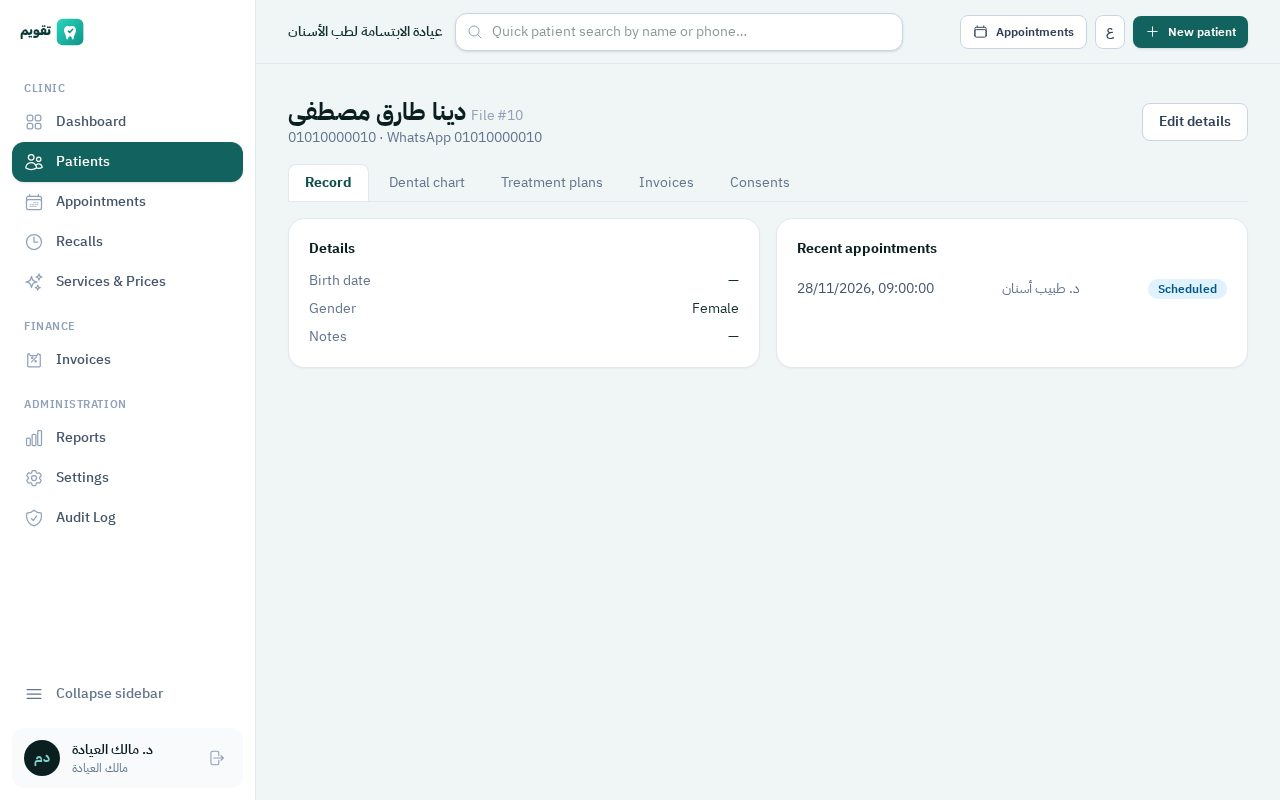
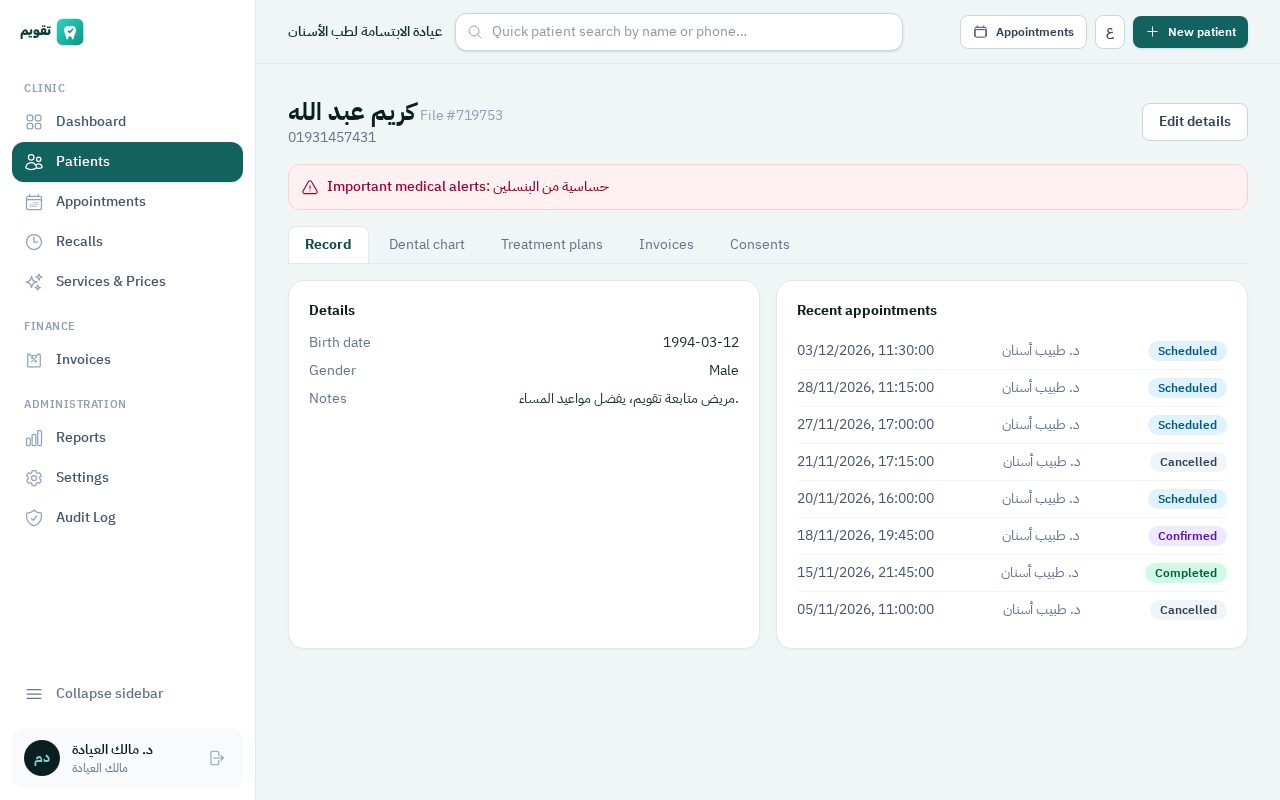
Data-rich landing screenshots, richer synthetic demo seeder, deployment notes
- Regenerate the 10 landing jpgs from a clinic with 88 patients, 161
  appointments and 33 invoices: dashboards, reports, appointment book,
  patient record and invoice views now show real working-clinic volume
- DatabaseSeeder grows the fictional demo clinic to the same volumes so
  taqwim:demo on a fresh install produces equally rich screens; still
  additive-only and refuses to rerun against existing demo records
- docs/deployment.md records the nonsecret host facts every deploy must
  preserve: the cPanel PHP 8.3 handler block above the Laravel rewrites
  in public/.htaccess, and the live host config choices
- README links the deployment notes

diff --git a/database/seeders/DatabaseSeeder.php b/database/seeders/DatabaseSeeder.php
@@ -226,6 +226,69 @@ class DatabaseSeeder extends Seeder
         $makeInvoice($patients[9], [['desc' => 'علاج عصب', 'price' => 250000], ['desc' => 'كشف وتشخيص', 'price' => 30000]], 6, $at(12, 13), [['amount' => 150000, 'method' => 'instapay'], ['amount' => 50000, 'method' => 'cash', 'plusDays' => 5]], 'partially_paid');
         $makeInvoice($patients[10], [['desc' => 'خلع ضرس', 'price' => 80000], ['desc' => 'حشو ضوئي', 'price' => 90000]], 7, $at(2, 10), [], 'issued');
 
+        // Extended synthetic volume so the demo dashboards, reports and charts
+        // look like a busy working clinic: more patients registered over the
+        // past six months, a full appointment book (past two months plus the
+        // coming two weeks) and invoices with mixed statuses and payment
+        // methods. All names and numbers remain fictional.
+        $firstNames = ['أحمد', 'محمد', 'محمود', 'مصطفى', 'كريم', 'عمر', 'يوسف', 'حسن', 'علي', 'إبراهيم', 'طارق', 'خالد', 'سامي', 'هشام', 'كمال',
+            'فاطمة', 'مريم', 'سارة', 'نور', 'هدى', 'منى', 'آية', 'دينا', 'رنا', 'سلمى', 'ياسمين', 'شيماء', 'أسماء', 'رانيا', 'هبة'];
+        $lastNames = ['السيد', 'عبد الله', 'محمد', 'حسن', 'إبراهيم', 'علي', 'محمود', 'أحمد', 'النجار', 'الشاذلي',
+            'عثمان', 'سليمان', 'عبد الرحمن', 'الجندي', 'رمضان', 'فتحي', 'شعبان', 'الزيات', 'حجازي', 'مراد'];
+        $extraPatients = [];
+        $seq = count($patients) + 1;
+        foreach (range(0, 75) as $i) {
+            $registered = now()->subDays(1 + ($i * 2) % 175);
+            $extraPatients[] = Patient::create([
+                'clinic_id' => $clinic->id, 'branch_id' => $branch->id, 'file_no' => $seq + $i,
+                'full_name' => $firstNames[$i % count($firstNames)].' '.$lastNames[intdiv($i, 3) % count($lastNames)],
+                'phone' => '011'.str_pad((string) (10000000 + $i * 137), 8, '0', STR_PAD_LEFT),
+                'whatsapp' => '011'.str_pad((string) (10000000 + $i * 137), 8, '0', STR_PAD_LEFT),
+                'gender' => $i % 2 === 0 ? 'male' : 'female',
+                'birth_date' => Carbon::now($tz)->subYears(20 + $i % 45)->subDays($i * 3)->toDateString(),
+                'medical_alerts' => $i % 17 === 0 ? ['حساسية من البنسلين'] : [],
+                'notes' => $i % 9 === 0 ? 'يفضل مواعيد المساء.' : null,
+                'created_at' => $registered, 'updated_at' => $registered,
+            ]);
+        }
+        $clinic->update(['next_patient_seq' => $seq + count($extraPatients)]);
+        $allPatients = array_merge($patients, $extraPatients);
+
+        $pastStatuses = ['completed', 'completed', 'completed', 'confirmed', 'cancelled', 'no_show'];
+        foreach (range(0, 139) as $i) {
+            $d = ($i * 3) % 74 - 60; // -60 days .. +13 days
+            $h = 9 + $i % 9;         // 09:00 .. 17:00 clinic-local
+            $st = $d < 0 ? $pastStatuses[$i % count($pastStatuses)] : ($d <= 2 ? 'confirmed' : 'scheduled');
+            Appointment::create([
+                'clinic_id' => $clinic->id, 'branch_id' => $branch->id,
+                'patient_id' => $allPatients[$i % count($allPatients)]->id,
+                'dentist_id' => $i % 2 ? $dentist->id : $owner->id,
+                'chair' => 'كرسي '.($i % 2 + 1),
+                'starts_at' => $at($d, $h), 'ends_at' => $at($d, $h)->addMinutes(30 + ($i % 3) * 15),
+                'status' => $st, 'reason' => $i % 4 === 0 ? 'كشف' : 'متابعة',
+            ]);
+        }
+
+        $svcList = array_values($services);
+        $methods = ['cash', 'card', 'instapay', 'bank_transfer', 'wallet'];
+        foreach (range(0, 24) as $i) {
+            $svc = $svcList[$i % count($svcList)];
+            $issuedAt = $at(5 + ($i * 6) % 145, 11 + $i % 6);
+            $st = $i % 5 === 4 ? 'issued' : ($i % 5 === 3 ? 'partially_paid' : 'paid');
+            $items = [['desc' => $svc->name_ar, 'price' => $svc->default_price_minor]];
+            if ($i % 3 === 0) {
+                $svc2 = $svcList[($i + 3) % count($svcList)];
+                $items[] = ['desc' => $svc2->name_ar, 'price' => $svc2->default_price_minor];
+            }
+            $subtotal = collect($items)->sum('price');
+            $paymentsSpec = match ($st) {
+                'paid' => [['amount' => $subtotal, 'method' => $methods[$i % count($methods)]]],
+                'partially_paid' => [['amount' => intdiv($subtotal, 2), 'method' => $methods[$i % count($methods)]]],
+                default => [],
+            };
+            $makeInvoice($allPatients[($i * 7) % count($allPatients)], $items, 8 + $i, $issuedAt, $paymentsSpec, $st);
+        }
+
         // Recalls: one overdue, upcoming ones, closed history.
         Recall::create(['clinic_id' => $clinic->id, 'patient_id' => $patients[3]->id, 'service_id' => $services['CLEAN']->id, 'due_date' => now($tz)->subDays(3)->toDateString(), 'status' => 'pending', 'reason' => 'مراجعة تنظيف دورية', 'created_by' => $owner->id]);
         Recall::create(['clinic_id' => $clinic->id, 'patient_id' => $patients[9]->id, 'due_date' => now($tz)->addDays(3)->toDateString(), 'status' => 'pending', 'reason' => 'استكمال علاج العصب', 'created_by' => $owner->id]);

diff --git a/docs/deployment.md b/docs/deployment.md
@@ -1,0 +1,44 @@
+# Deployment notes
+
+Nonsecret operational guidance for deploying Taqwim. The live shared host is
+managed by a separate operations owner; this document records what a deploy
+must preserve, not how to change host settings.
+
+## Shared host (cPanel) PHP handler
+
+The live host serves PHP 8.3 through a cPanel MultiPHP handler block written at
+the top of the domain docroot `public/.htaccess`:
+
+```
+# php -- BEGIN cPanel-generated handler, do not edit
+<IfModule mime_module>
+  AddHandler application/x-httpd-ea-php83 .php .php8 .phtml
+</IfModule>
+# php -- END cPanel-generated handler, do not edit
+```
+
+This block is host configuration, not application code. This repository ships
+the stock Laravel `public/.htaccess`, so a deploy that overwrites the docroot
+`.htaccess` removes the handler block and the site falls back to an older PHP.
+Every deploy must either leave the live `.htaccess` untouched or restore the
+cPanel block above the Laravel rewrite rules after copying files.
+
+## Live host configuration choices (nonsecret)
+
+Preserve these on the host when updating code:
+
+- `APP_NAME=Taqwim`
+- `APP_DEBUG=false`
+- `QUEUE_CONNECTION=sync` — no queue worker runs on the host
+- `MAIL_MAILER=log` — until a real mailer is configured
+- Secure session settings as configured on the host
+
+Runtime secrets (DB credentials, `APP_KEY`, OAuth secrets) stay host-owned and
+never enter this repository or release artifacts.
+
+## Demo fixture
+
+`php artisan taqwim:demo` creates the fictional demo clinic once and refuses
+to run if its demo records already exist; it never resets data. The demo
+password comes from `--password-file` (0600, min 12 chars), the `DEMO_PASSWORD`
+environment variable, or a hidden interactive prompt.

diff --git a/README.md b/README.md
@@ -140,6 +140,8 @@ php artisan test
 | `PLATFORM_TRIAL_DAYS` | Unset = no trial. Trials are an undecided commercial term; do not set without an owner decision. |
 | `PLATFORM_SALES_WHATSAPP` | Empty = neutral "contact us" activation state on pricing. |
 
+Shared-host (cPanel) deploys: see [docs/deployment.md](docs/deployment.md) for the host PHP handler block every deploy must preserve and the live host's nonsecret configuration choices.
+
 ## Not built yet
 
 Automatic WhatsApp sending, SMS and email notifications, online payment, insurance claims, a native mobile app, and an AI assistant inside the product itself. The landing page says the same to visitors.
